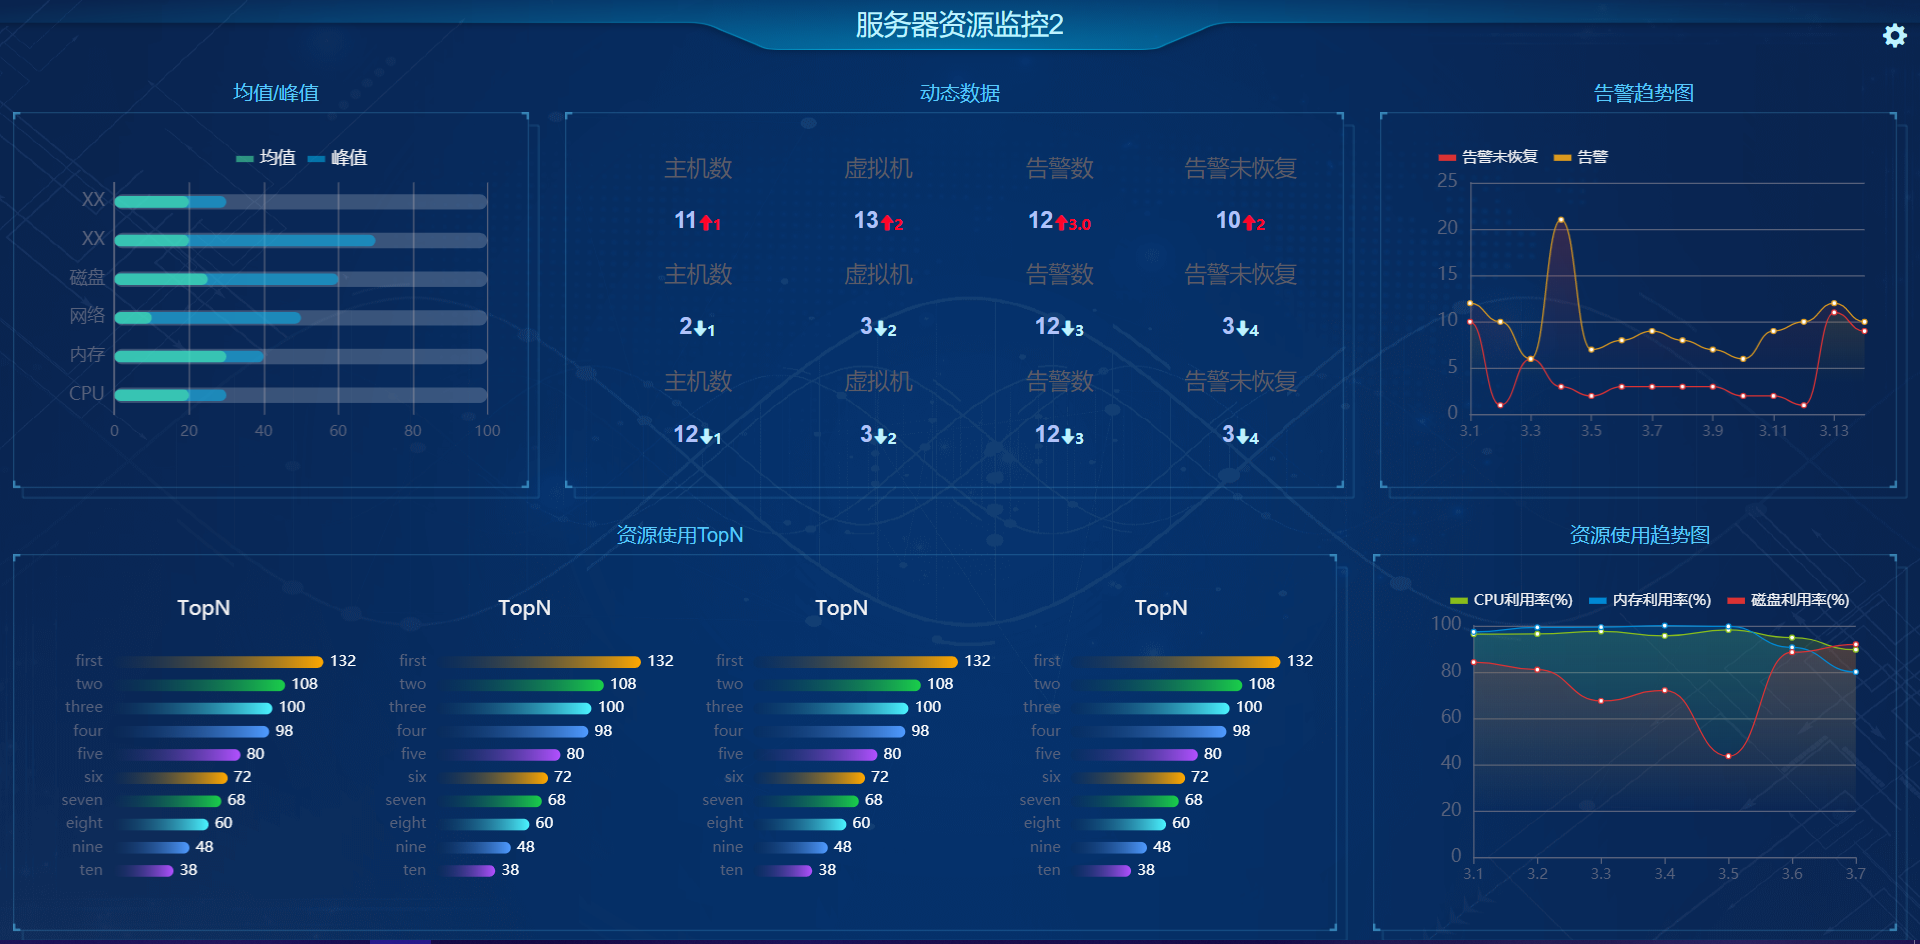
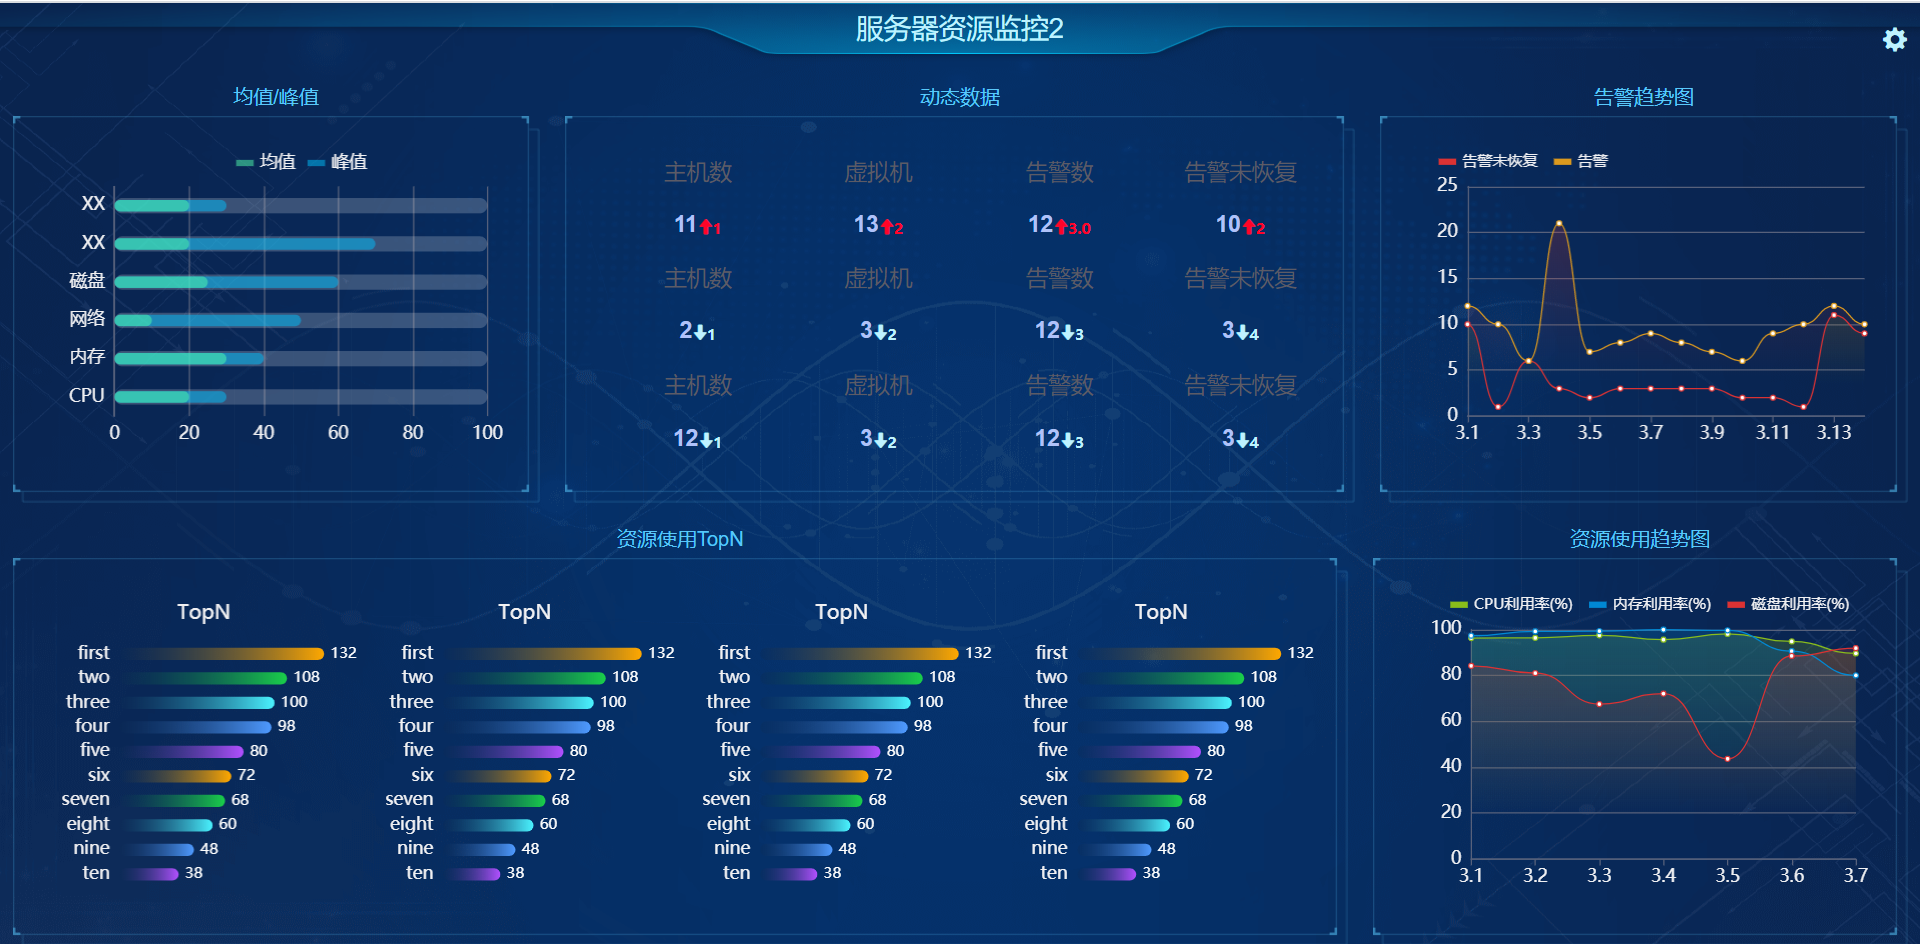
优化iDataV的case11样式

diff --git a/iDataV/case11/js/view.js b/iDataV/case11/js/view.js
@@ -81,6 +81,8 @@ function topLeftView() {
             //axisLabel 坐标轴刻度标签的相关设置
             axisLabel: {
                 show: true,
+                color: '#F1F1F3',
+                fontSize: 14,
             }
         }, ],
         yAxis: [{
@@ -88,7 +90,7 @@ function topLeftView() {
             data: ['CPU', '内存', '网络', '磁盘', 'XX','XX'],
             axisLabel: {
                 show: true,
-                color: '#57617B',
+                color: '#F1F1F3',
                 fontSize: 14,
             },
             splitLine: {
@@ -107,8 +109,8 @@ function topLeftView() {
             type: 'category',
             data: [],
             axisLabel: {
-                show: false,
-                color: '#57617B',
+                show: true,
+                color: '#F1F1F3',
                 fontSize: 14,
             },
             splitLine: {
@@ -229,6 +231,11 @@ function topRightView() {
                     color: '#57617B'
                 }
             },
+            axisLabel: {
+                show: true,
+                color: '#F1F1F3',
+                fontSize: 14,
+            },
             data: ['3.1', '3.2', '3.3','3.4', '3.5', '3.6','3.7','3.8', '3.9', '3.10','3.11', '3.12', '3.13','3.14']
         }],
         yAxis: [{
@@ -242,10 +249,9 @@ function topRightView() {
                 }
             },
             axisLabel: {
-                margin: 10,
-                textStyle: {
-                    fontSize: 14
-                }
+                show: true,
+                color: '#F1F1F3',
+                fontSize: 14,
             },
             splitLine: {
                 lineStyle: {
@@ -361,6 +367,11 @@ function downRigthView() {
                     color: '#57617B'
                 }
             },
+            axisLabel: {
+                show: true,
+                color: '#F1F1F3',
+                fontSize: 14,
+            },
             data: ['3.1', '3.2', '3.3','3.4', '3.5', '3.6','3.7']
         }],
         yAxis: [{
@@ -374,10 +385,9 @@ function downRigthView() {
                 }
             },
             axisLabel: {
-                margin: 10,
-                textStyle: {
-                    fontSize: 14
-                }
+                show: true,
+                color: '#F1F1F3',
+                fontSize: 14,
             },
             splitLine: {
                 lineStyle: {
@@ -516,6 +526,11 @@ function downRigthView() {
                     color: '#57617B'
                 }
             },
+            axisLabel: {
+                show: true,
+                color: '#F1F1F3',
+                fontSize: 14,
+            },
             data: ['3.1', '3.2', '3.3','3.4', '3.5', '3.6','3.7']
         }],
         yAxis: [{
@@ -529,10 +544,9 @@ function downRigthView() {
                 }
             },
             axisLabel: {
-                margin: 10,
-                textStyle: {
-                    fontSize: 14
-                }
+                show: true,
+                color: '#F1F1F3',
+                fontSize: 14,
             },
             splitLine: {
                 lineStyle: {
@@ -626,7 +640,7 @@ function downLeftView() {
         },
         grid: {
             left: '5%',
-            top: '12%',
+            top: '8%',
             right: '2%',
             bottom: '8%',
             containLabel: true
@@ -666,6 +680,11 @@ function downLeftView() {
                 lineStyle: {
                     color: '#57617B',
                 }
+            },
+            axisLabel: {
+                show: true,
+                color: '#F1F1F3',
+                fontSize: 14,
             },
             data: ['first', 'two', 'three', 'four', 'five','six', 'seven', 'eight', 'nine', 'ten']
         }
